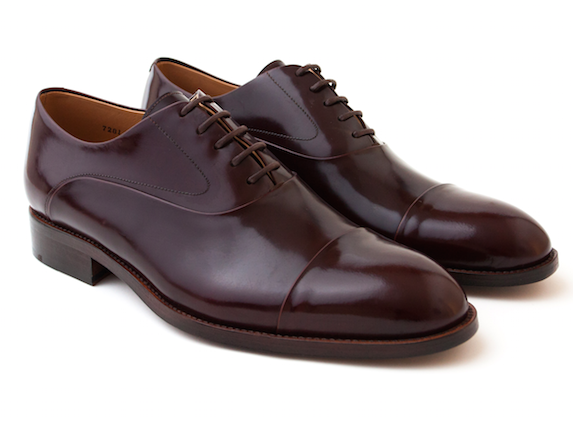
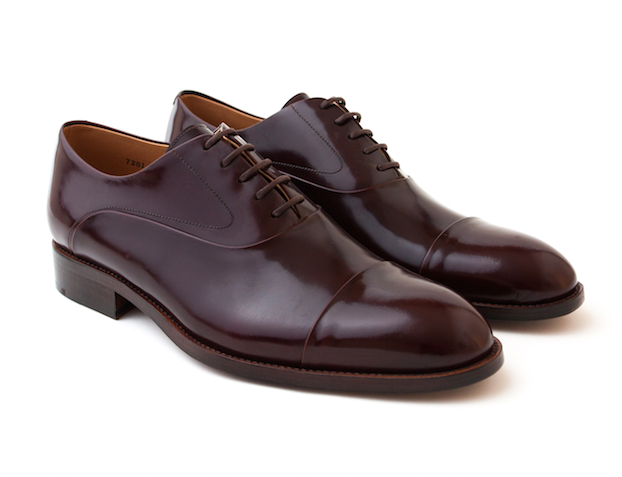
added product photos

Changed region(s): [[0.0297, 0.1235, 1.0, 0.8955], [0.623, 0.6176, 0.6527, 0.6485]]

diff --git a/home.html b/home.html
@@ -143,31 +143,84 @@
 	<div id="cta">
 		<div class="container">
 			<div class="row">
-				<h2>Available from December 2014 - sign up to be notified!</h2>
+				<h2>Available from March 2015 - sign up to be notified!</h2>
 			</div><!--/row -->
 		</div><!--/container -->
 	</div><!--/CTA -->
 
-	<!-- ********** FEATURES SECTION - Part 1 ********** --> 
+	<!-- ********** PRODUCT SHOW ********** --> 
 	<div class="container mt1">
 		<div class="row">
-			<div class="col-md-4 centered">
-				<img src="assets/img/1.png" width="120" height="auto" class="img-responsive aligncenter" alt="" data-effect="slide-bottom"><br>
-				<h4>Quality &amp; Durability</h4>
-				<p class="text16">Botto shoes are made from the finest materials. These are hand-picked individually by us and we do the same with all other shoe components. We guarantee you quality.</p>
-			</div><!--/col-md-4-->
-			<div class="col-md-4 centered">
-				<img src="assets/img/2.png" width="120" height="auto" class="img-responsive aligncenter" alt="" data-effect="slide-bottom"><br>
-				<h4>Design</h4>
-				<p class="text16">The best designs are timeless. Our skilled designers in London compliment our shoes with innovative custom features but still ensuring they’ll look great on you even after many years.</p>
-			</div><!--/col-md-4-->
-			<div class="col-md-4 centered">
-				<img src="assets/img/3.png" width="120" height="auto" class="img-responsive aligncenter" alt="" data-effect="slide-bottom"><br>
-				<h4>Fair Price</h4>
-				<p class="text16">We simply believe that we should be fair with what we do, therefore we will also give you honest price. Asking why? No middlemen, no retail space to rent, no upcharging. Simple!</p>
-			</div><!--/col-md-4-->
-		</div><!--/row -->
-		<br><br>
+				<div class="col-md-6 col-md-offset-3 centered">
+					<h2>The Product</h2>
+					<hr class="aligncenter">
+					<h4>Get notified or pre-order now - we're shipping in March.</h4>
+				</div><!-- /col-md-6-->
+		<div id="carousel-example-generic" class="carousel slide" data-ride="carousel">
+			<!-- Wrapper for slides -->
+			<div class="carousel-inner" role="listbox">
+				<div class="item active">
+					<img src="assets/img/product/0.png" width="53%" height="auto" class="img-responsive aligncenter" alt="">
+				</div>
+				<div class="item">
+					<img src="assets/img/product/1.jpg" width="50%" height="auto" class="img-responsive aligncenter" alt="">
+				</div>
+				<div class="item">
+					<img src="assets/img/product/2.jpg" width="50%" height="auto" class="img-responsive aligncenter" alt="">
+				</div>
+				<div class="item">
+					<img src="assets/img/product/3.jpg" width="50%" height="auto" class="img-responsive aligncenter" alt="">
+				</div>
+				<div class="item">
+					<img src="assets/img/product/4.jpg" width="50%" height="auto" class="img-responsive aligncenter" alt="">
+				</div>
+				<div class="item">
+					<img src="assets/img/product/5.jpg" width="50%" height="auto" class="img-responsive aligncenter" alt="">
+				</div>
+			</div>
+
+			<!-- Controls -->
+			<a class="left carousel-control" href="#carousel-example-generic" role="button" data-slide="prev">
+				<span class="glyphicon glyphicon-chevron-left" aria-hidden="true"></span>
+				<span class="sr-only">Previous</span>
+			</a>
+			<a class="right carousel-control" href="#carousel-example-generic" role="button" data-slide="next">
+				<span class="glyphicon glyphicon-chevron-right" aria-hidden="true"></span>
+				<span class="sr-only">Next</span>
+			</a>
+			<div class="row mt">
+				<div class="col-md-4 col-md-offset-4 centered">
+					<a href="http://shop.getbotto.com" class="btn btn-lg btn-green">Pre-Order Now!</a>
+				</div><!--/col-md-4-->
+			</div><!--/row -->
+		</div>
+	</div>
+	</div>
+
+
+
+	<!-- ********** FEATURES SECTION - Part 1 ********** --> 
+	<div id="g">
+		<div class="container mt1">
+			<div class="row">
+				<div class="col-md-4 centered">
+					<img src="assets/img/1.png" width="120" height="auto" class="img-responsive aligncenter" alt="" data-effect="slide-bottom"><br>
+					<h4>Quality &amp; Durability</h4>
+					<p class="text16">Botto shoes are made from the finest materials. These are hand-picked individually by us and we do the same with all other shoe components. We guarantee you quality.</p>
+				</div><!--/col-md-4-->
+				<div class="col-md-4 centered">
+					<img src="assets/img/2.png" width="120" height="auto" class="img-responsive aligncenter" alt="" data-effect="slide-bottom"><br>
+					<h4>Design</h4>
+					<p class="text16">The best designs are timeless. Our skilled designers in London compliment our shoes with innovative custom features but still ensuring they’ll look great on you even after many years.</p>
+				</div><!--/col-md-4-->
+				<div class="col-md-4 centered">
+					<img src="assets/img/3.png" width="120" height="auto" class="img-responsive aligncenter" alt="" data-effect="slide-bottom"><br>
+					<h4>Fair Price</h4>
+					<p class="text16">We simply believe that we should be fair with what we do, therefore we will also give you honest price. Asking why? No middlemen, no retail space to rent, no upcharging. Simple!</p>
+				</div><!--/col-md-4-->
+			</div><!--/row -->
+			<br><br>
+		</div>
 	</div><!--/container -->
 
 	<!-- ********** TESTIMONIAL SECTION ********** --> 
@@ -210,7 +263,7 @@
 		<div class="container" id="signup">
 			<div class="row mt">
 				<div class="centered">
-					<h2>Available from December 2014 - sign up to be notified!</h2>
+					<h2>Available from March 2015 - sign up to be notified!</h2>
 				</div><!-- /col-md-6-->
 			</div><!--/row -->
 			

diff --git a/assets/css/bootstrap.css b/assets/css/bootstrap.css
@@ -5768,38 +5768,18 @@ button.close {
   left: 0;
   width: 15%;
   font-size: 20px;
-  color: #fff;
+  color: #151A23;
   text-align: center;
   text-shadow: 0 1px 2px rgba(0, 0, 0, .6);
   filter: alpha(opacity=50);
   opacity: .5;
 }
-.carousel-control.left {
-  background-image: -webkit-linear-gradient(left, rgba(0, 0, 0, .5) 0%, rgba(0, 0, 0, .0001) 100%);
-  background-image:      -o-linear-gradient(left, rgba(0, 0, 0, .5) 0%, rgba(0, 0, 0, .0001) 100%);
-  background-image: -webkit-gradient(linear, left top, right top, from(rgba(0, 0, 0, .5)), to(rgba(0, 0, 0, .0001)));
-  background-image:         linear-gradient(to right, rgba(0, 0, 0, .5) 0%, rgba(0, 0, 0, .0001) 100%);
-  filter: progid:DXImageTransform.Microsoft.gradient(startColorstr='#80000000', endColorstr='#00000000', GradientType=1);
-  background-repeat: repeat-x;
-}
+
 .carousel-control.right {
   right: 0;
   left: auto;
-  background-image: -webkit-linear-gradient(left, rgba(0, 0, 0, .0001) 0%, rgba(0, 0, 0, .5) 100%);
-  background-image:      -o-linear-gradient(left, rgba(0, 0, 0, .0001) 0%, rgba(0, 0, 0, .5) 100%);
-  background-image: -webkit-gradient(linear, left top, right top, from(rgba(0, 0, 0, .0001)), to(rgba(0, 0, 0, .5)));
-  background-image:         linear-gradient(to right, rgba(0, 0, 0, .0001) 0%, rgba(0, 0, 0, .5) 100%);
-  filter: progid:DXImageTransform.Microsoft.gradient(startColorstr='#00000000', endColorstr='#80000000', GradientType=1);
-  background-repeat: repeat-x;
 }
-.carousel-control:hover,
-.carousel-control:focus {
-  color: #fff;
-  text-decoration: none;
-  filter: alpha(opacity=90);
-  outline: 0;
-  opacity: .9;
-}
+
 .carousel-control .icon-prev,
 .carousel-control .icon-next,
 .carousel-control .glyphicon-chevron-left,

diff --git a/assets/css/style.css b/assets/css/style.css
@@ -58,8 +58,8 @@ body {
 .centered {text-align: center}
 .mt {margin-top: 50px;}
 .mt1 {
-	margin-top: 125px;
-	margin-bottom: 100px;
+	margin-top: 85px;
+	margin-bottom: 85px;
 	}
 .mb {margin-bottom: 50px;}
 .mtb {margin-top: 50px; margin-bottom: 50px;}
@@ -306,6 +306,28 @@ h4 {
 	border: solid 1px #ccc;
 	width: 80px;
 }
+
+#testimonial-product {
+	background: white;
+	padding-bottom: 50px;
+	padding-top: 50px;
+	min-height: 450px;
+	color: white;
+	background-attachment: relative;
+	background-position: center center;
+	width: 100%;
+	
+    -webkit-background-size: 100%;
+    -moz-background-size: 100%;
+    -o-background-size: 100%;
+    background-size: 100%;
+
+    -webkit-background-size: cover;
+    -moz-background-size: cover;
+    -o-background-size: cover;
+    background-size: cover;
+}
+
 
 
 /* GENERAL CONF */
